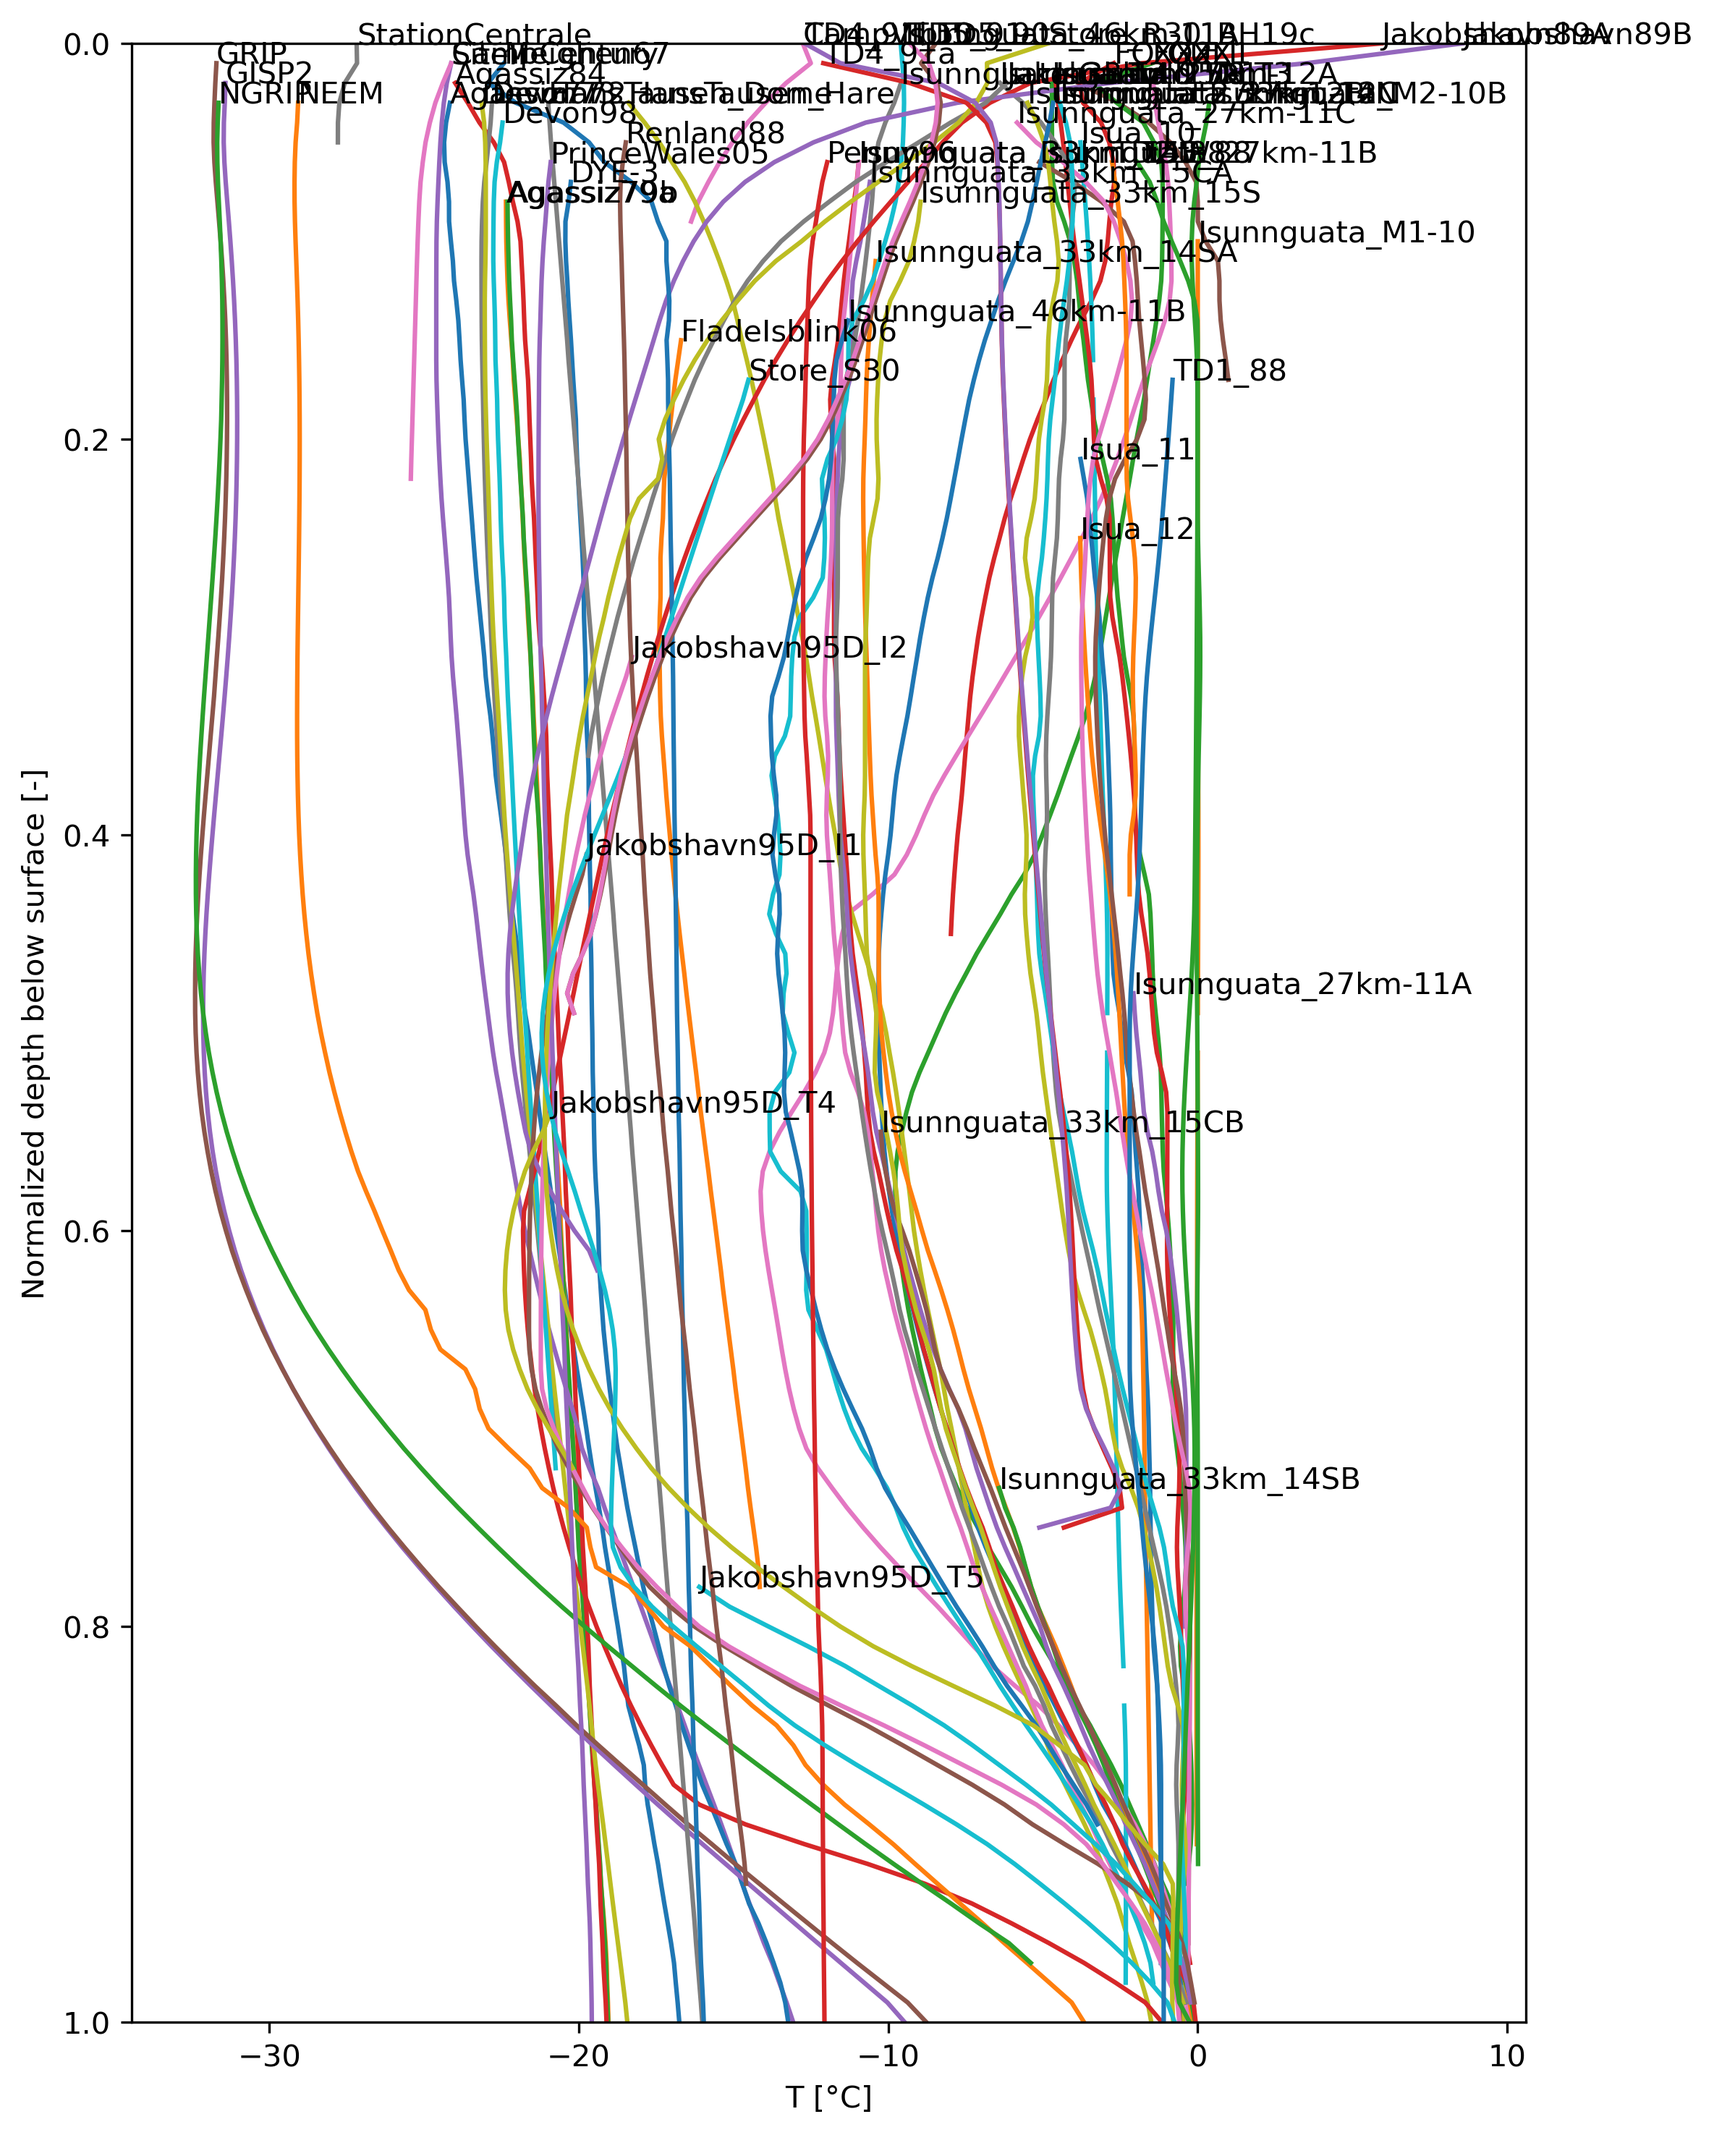
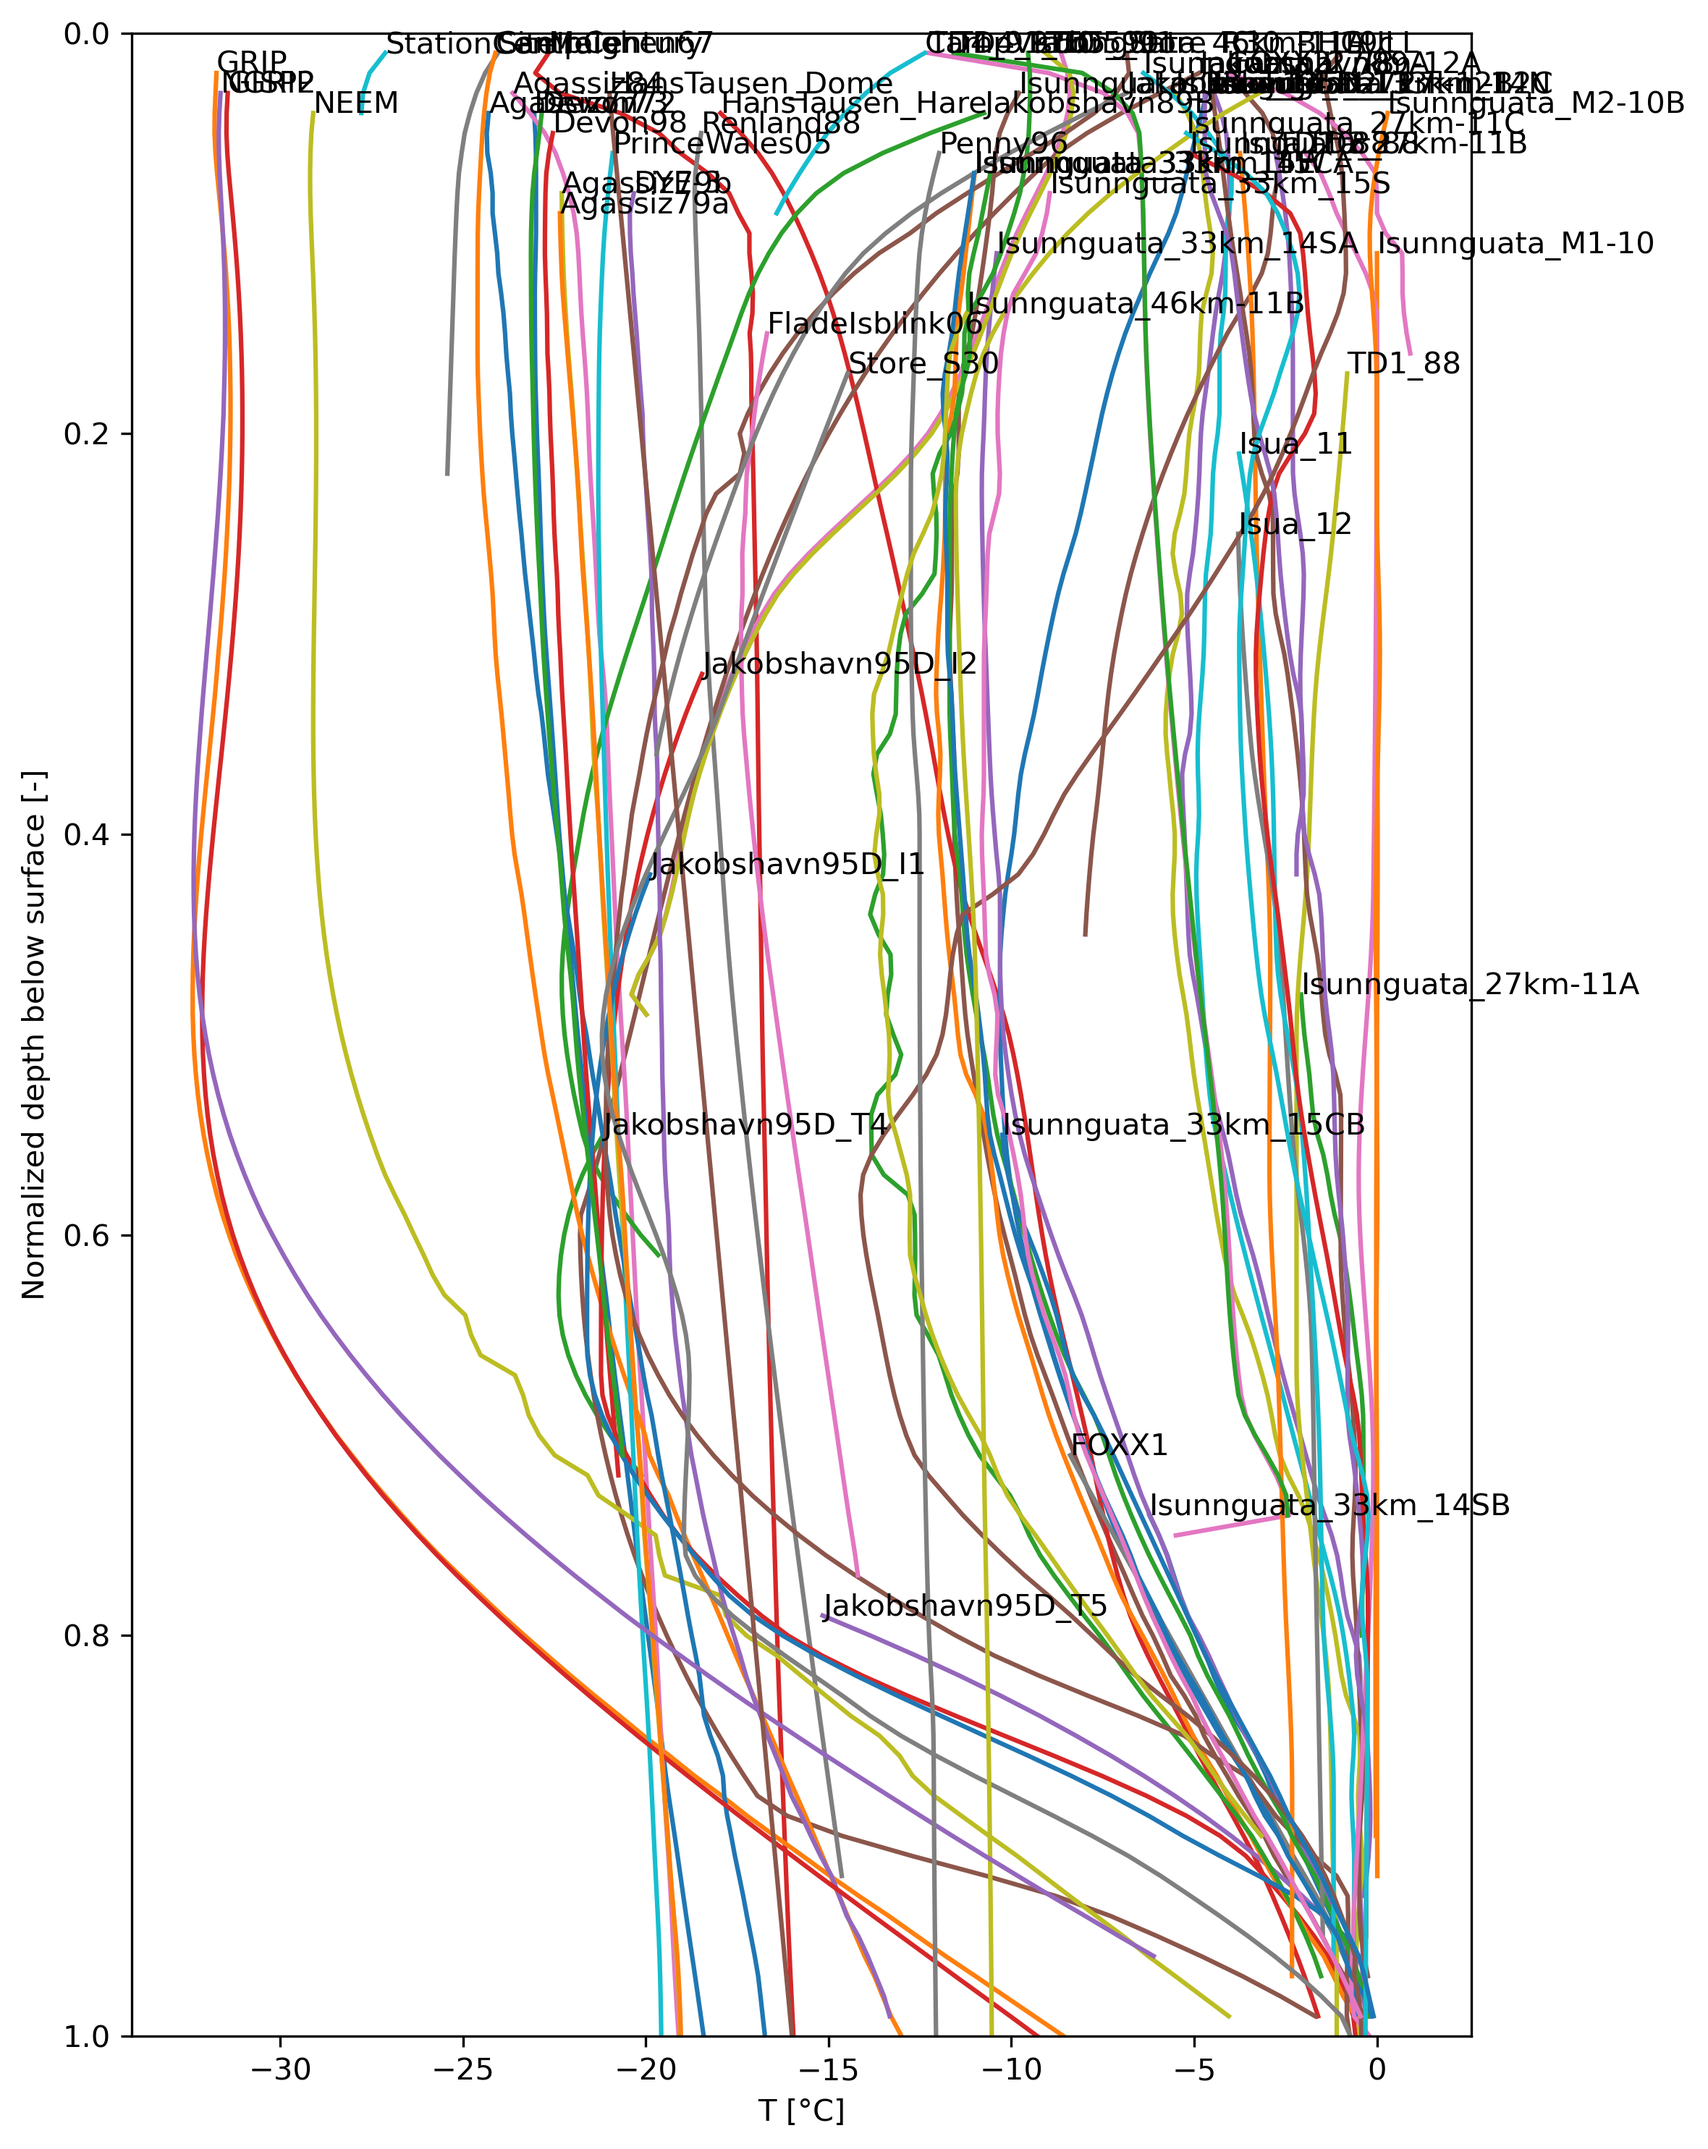
Figures

diff --git a/src/figs.py b/src/figs.py
@@ -22,11 +22,11 @@ for c in df.columns:
     if np.size(df[c].dropna()) != 0:
         ax.text(df[c].dropna().values[-1],
                 -df[c].dropna().index[-1],
-                c[0])
+                c)
 
 ax.set_xlabel('T [°C]')
 ax.set_ylabel('Depth below surface [m]')
-plt.savefig('./data/temperature.png', transparent=False, bbox_inches='tight', dpi=300)
+plt.savefig('./fig/temperature.png', transparent=False, bbox_inches='tight', dpi=300)
 
 
 
@@ -41,9 +41,9 @@ for c in df.columns:
     if np.size(df[c].dropna()) != 0:
         ax.text(df[c].dropna().values[0],
                 df[c].dropna().index[0],
-                c[0])
+                c)
 
 ax.set_xlabel('T [°C]')
 ax.set_ylabel('Normalized depth below surface [-]')
 ax.set_ylim([1,0])
-plt.savefig('./data/temperature_dnorm.png', transparent=False, bbox_inches='tight', dpi=300)
+plt.savefig('./fig/temperature_dnorm.png', transparent=False, bbox_inches='tight', dpi=300)
